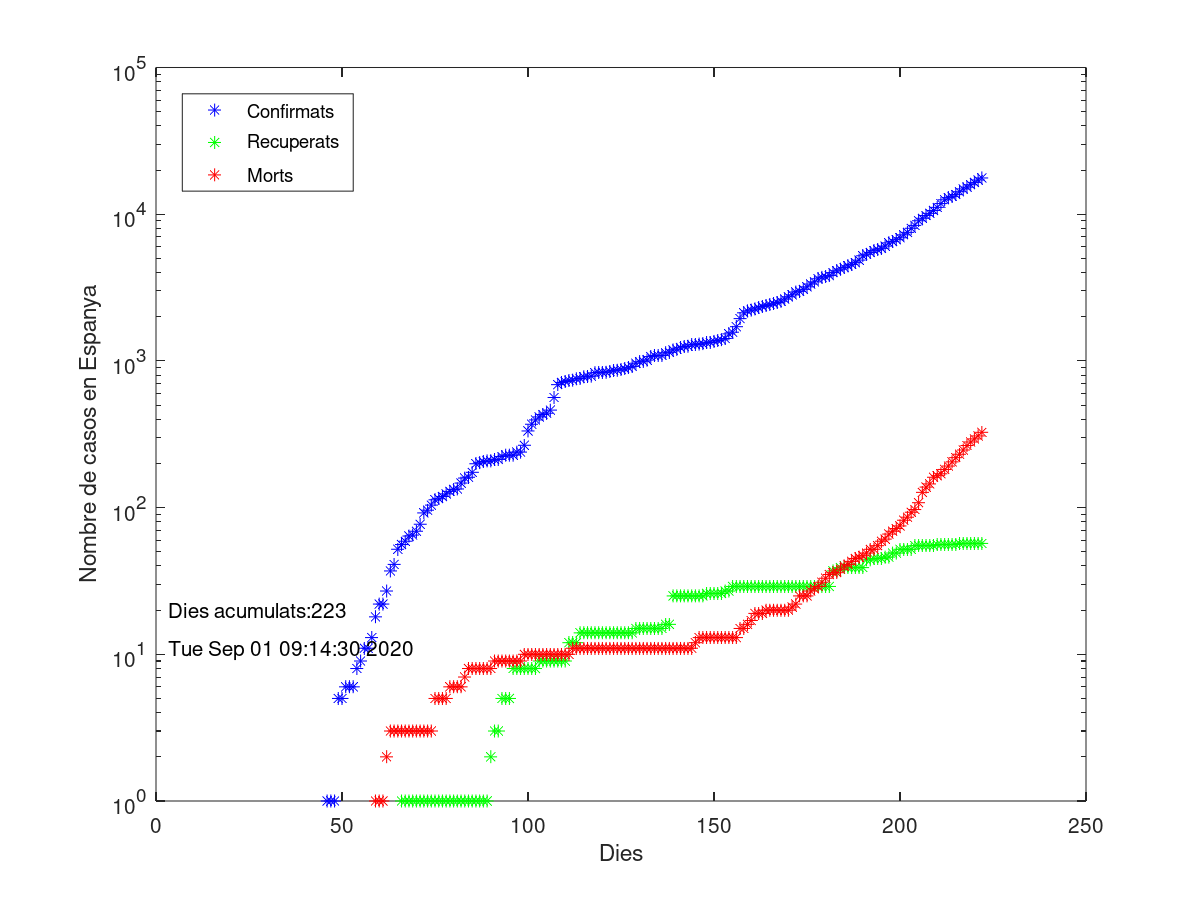
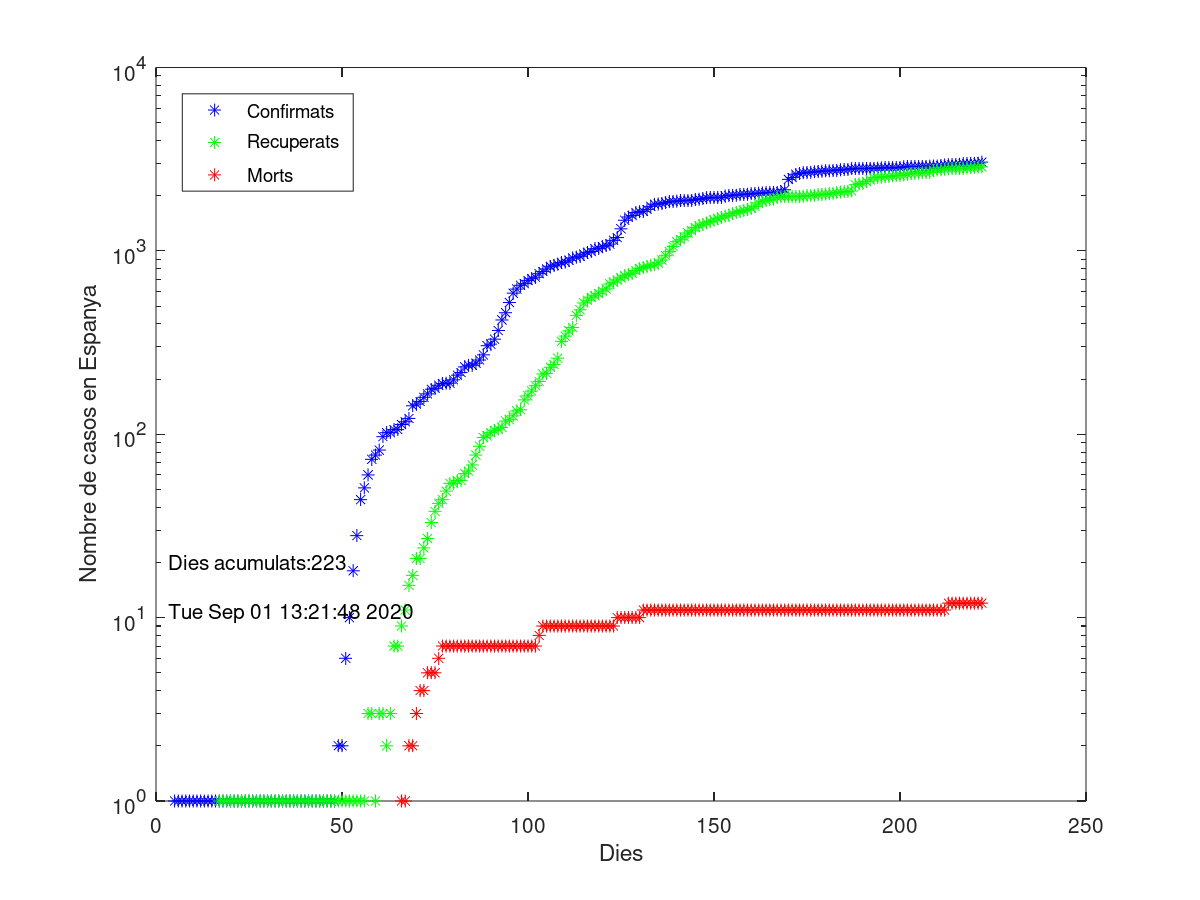
Daily Update

diff --git a/Main.m b/Main.m
@@ -16,7 +16,7 @@ DataConfirmed = importdata(file_of_confirmed,',',1);
 DataDeath = importdata(file_of_death,',',1);
 DataRecovered = importdata(file_of_recovered,',',1);
 
-indexSpain = 202;
+indexSpain = 228;
 
 ConfirmedSpain = DataConfirmed.data(indexSpain,:);
 ConfirmedSpain(1:3) = [];
@@ -29,7 +29,7 @@ textDies = strcat('Dies acumulats:  ', num2str(length(ConfirmedSpain)));
 DeathSpain = DataDeath.data(indexSpain,:);
 DeathSpain(1:3) = [];
 
-RecoveredSpain = DataRecovered.data(200,:);
+RecoveredSpain = DataRecovered.data(215,:);
 RecoveredSpain(1:3) = [];
 
 ConfirmedSpain(ConfirmedSpain<=0) = NaN;
